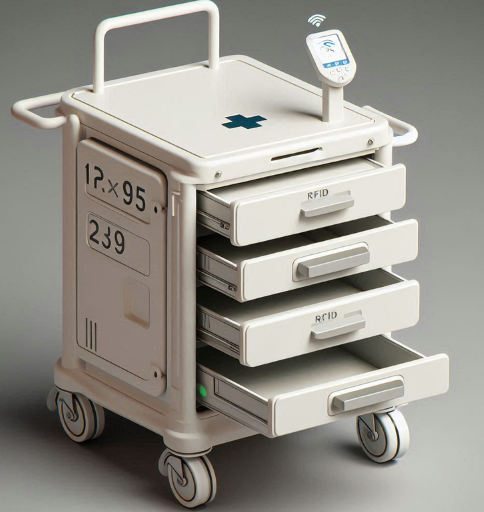
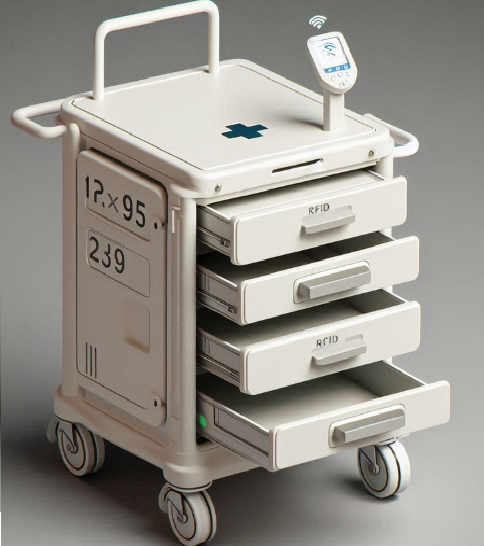
arrumando imagens

diff --git a/src/CSS/style.css b/src/CSS/style.css
@@ -1,4 +1,8 @@
 
+*{
+  font-family: Verdana, Geneva, Tahoma, sans-serif;
+}
+
 body {
     font-family: Arial, sans-serif;
     background-color: #f4f4f9;
@@ -10,7 +14,7 @@ body {
   
 
   header {
-    background-color: #007bff;
+    background-color: #24822e;
   }
   
   header h1 {
@@ -21,7 +25,7 @@ body {
   
 
   .navbar {
-    background-color: #343a40;
+    background-color: #1c7fe1;
   }
   
   .navbar .navbar-brand {
@@ -34,7 +38,7 @@ body {
   }
   
   .navbar-nav .nav-link:hover {
-    background-color: #007bff;
+    background-color: #023b77;
   }
   
 
@@ -83,14 +87,14 @@ body {
   form button {
     width: 100%;
     padding: 12px;
-    background-color: #007bff;
+    background-color: #24822e;
     border: none;
     border-radius: 5px;
     font-size: 1.2rem;
   }
   
   form button:hover {
-    background-color: #0056b3;
+    background-color: #22772a;
   }
   
   .card{
